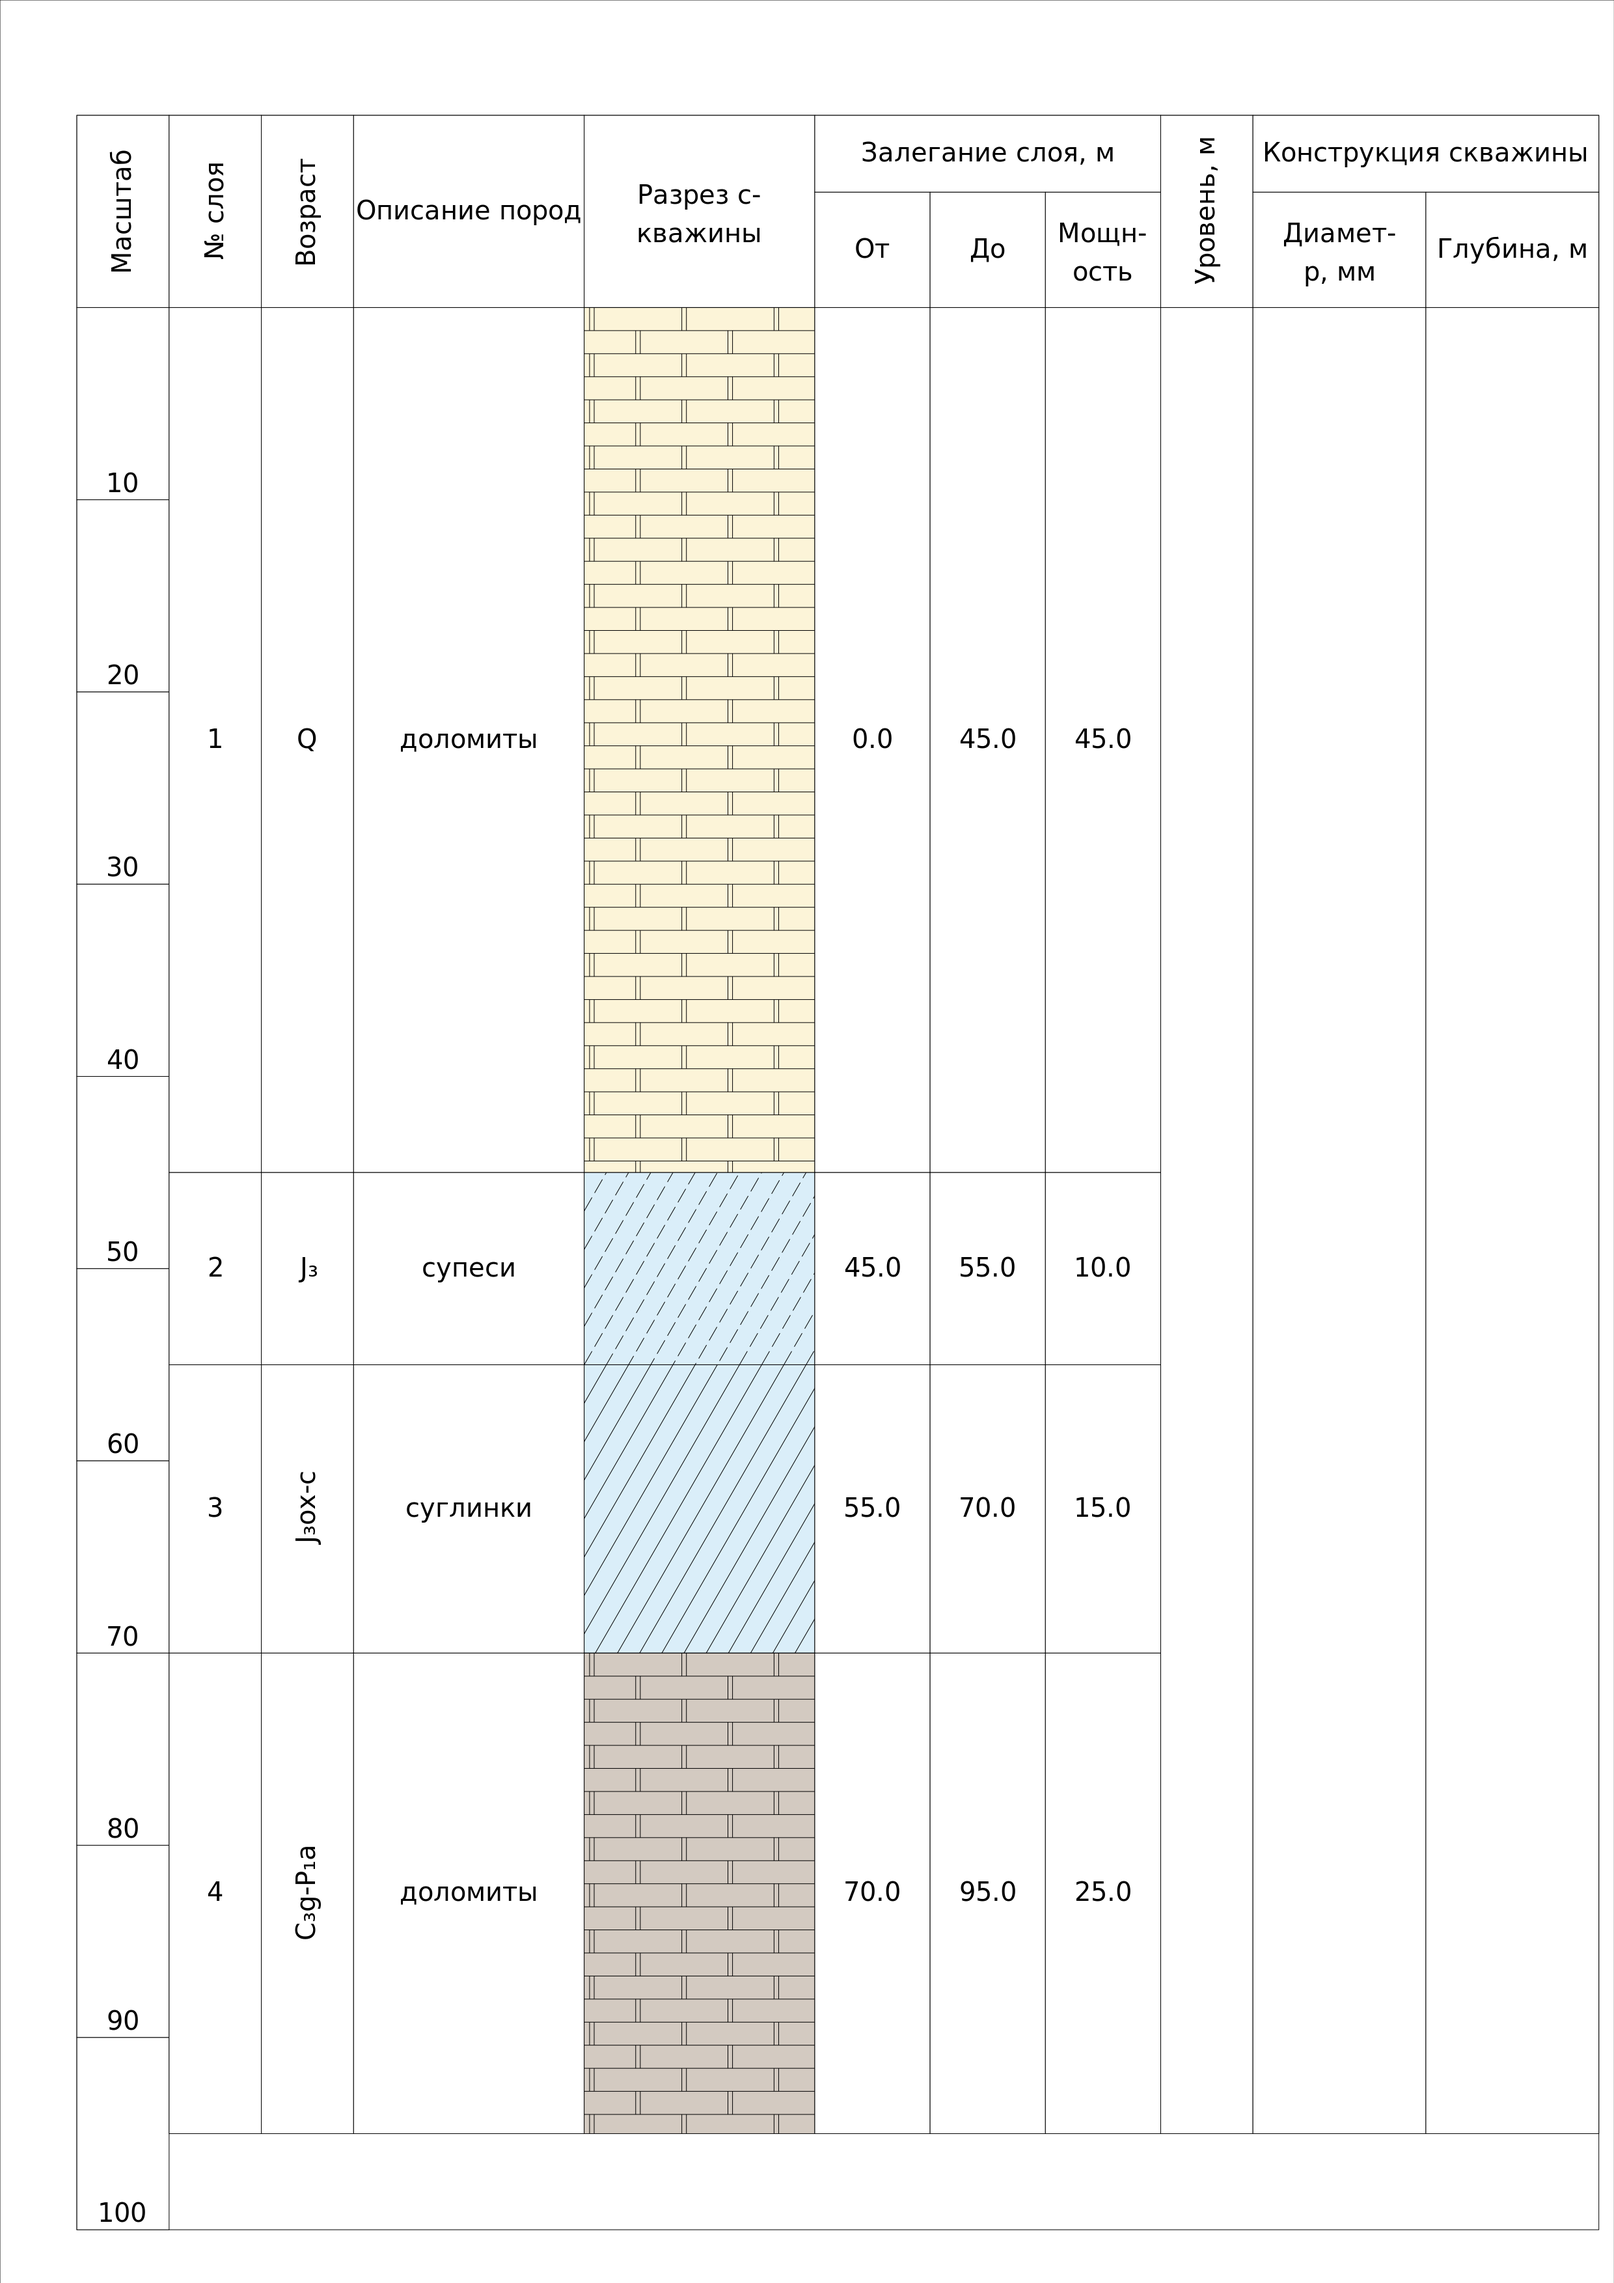
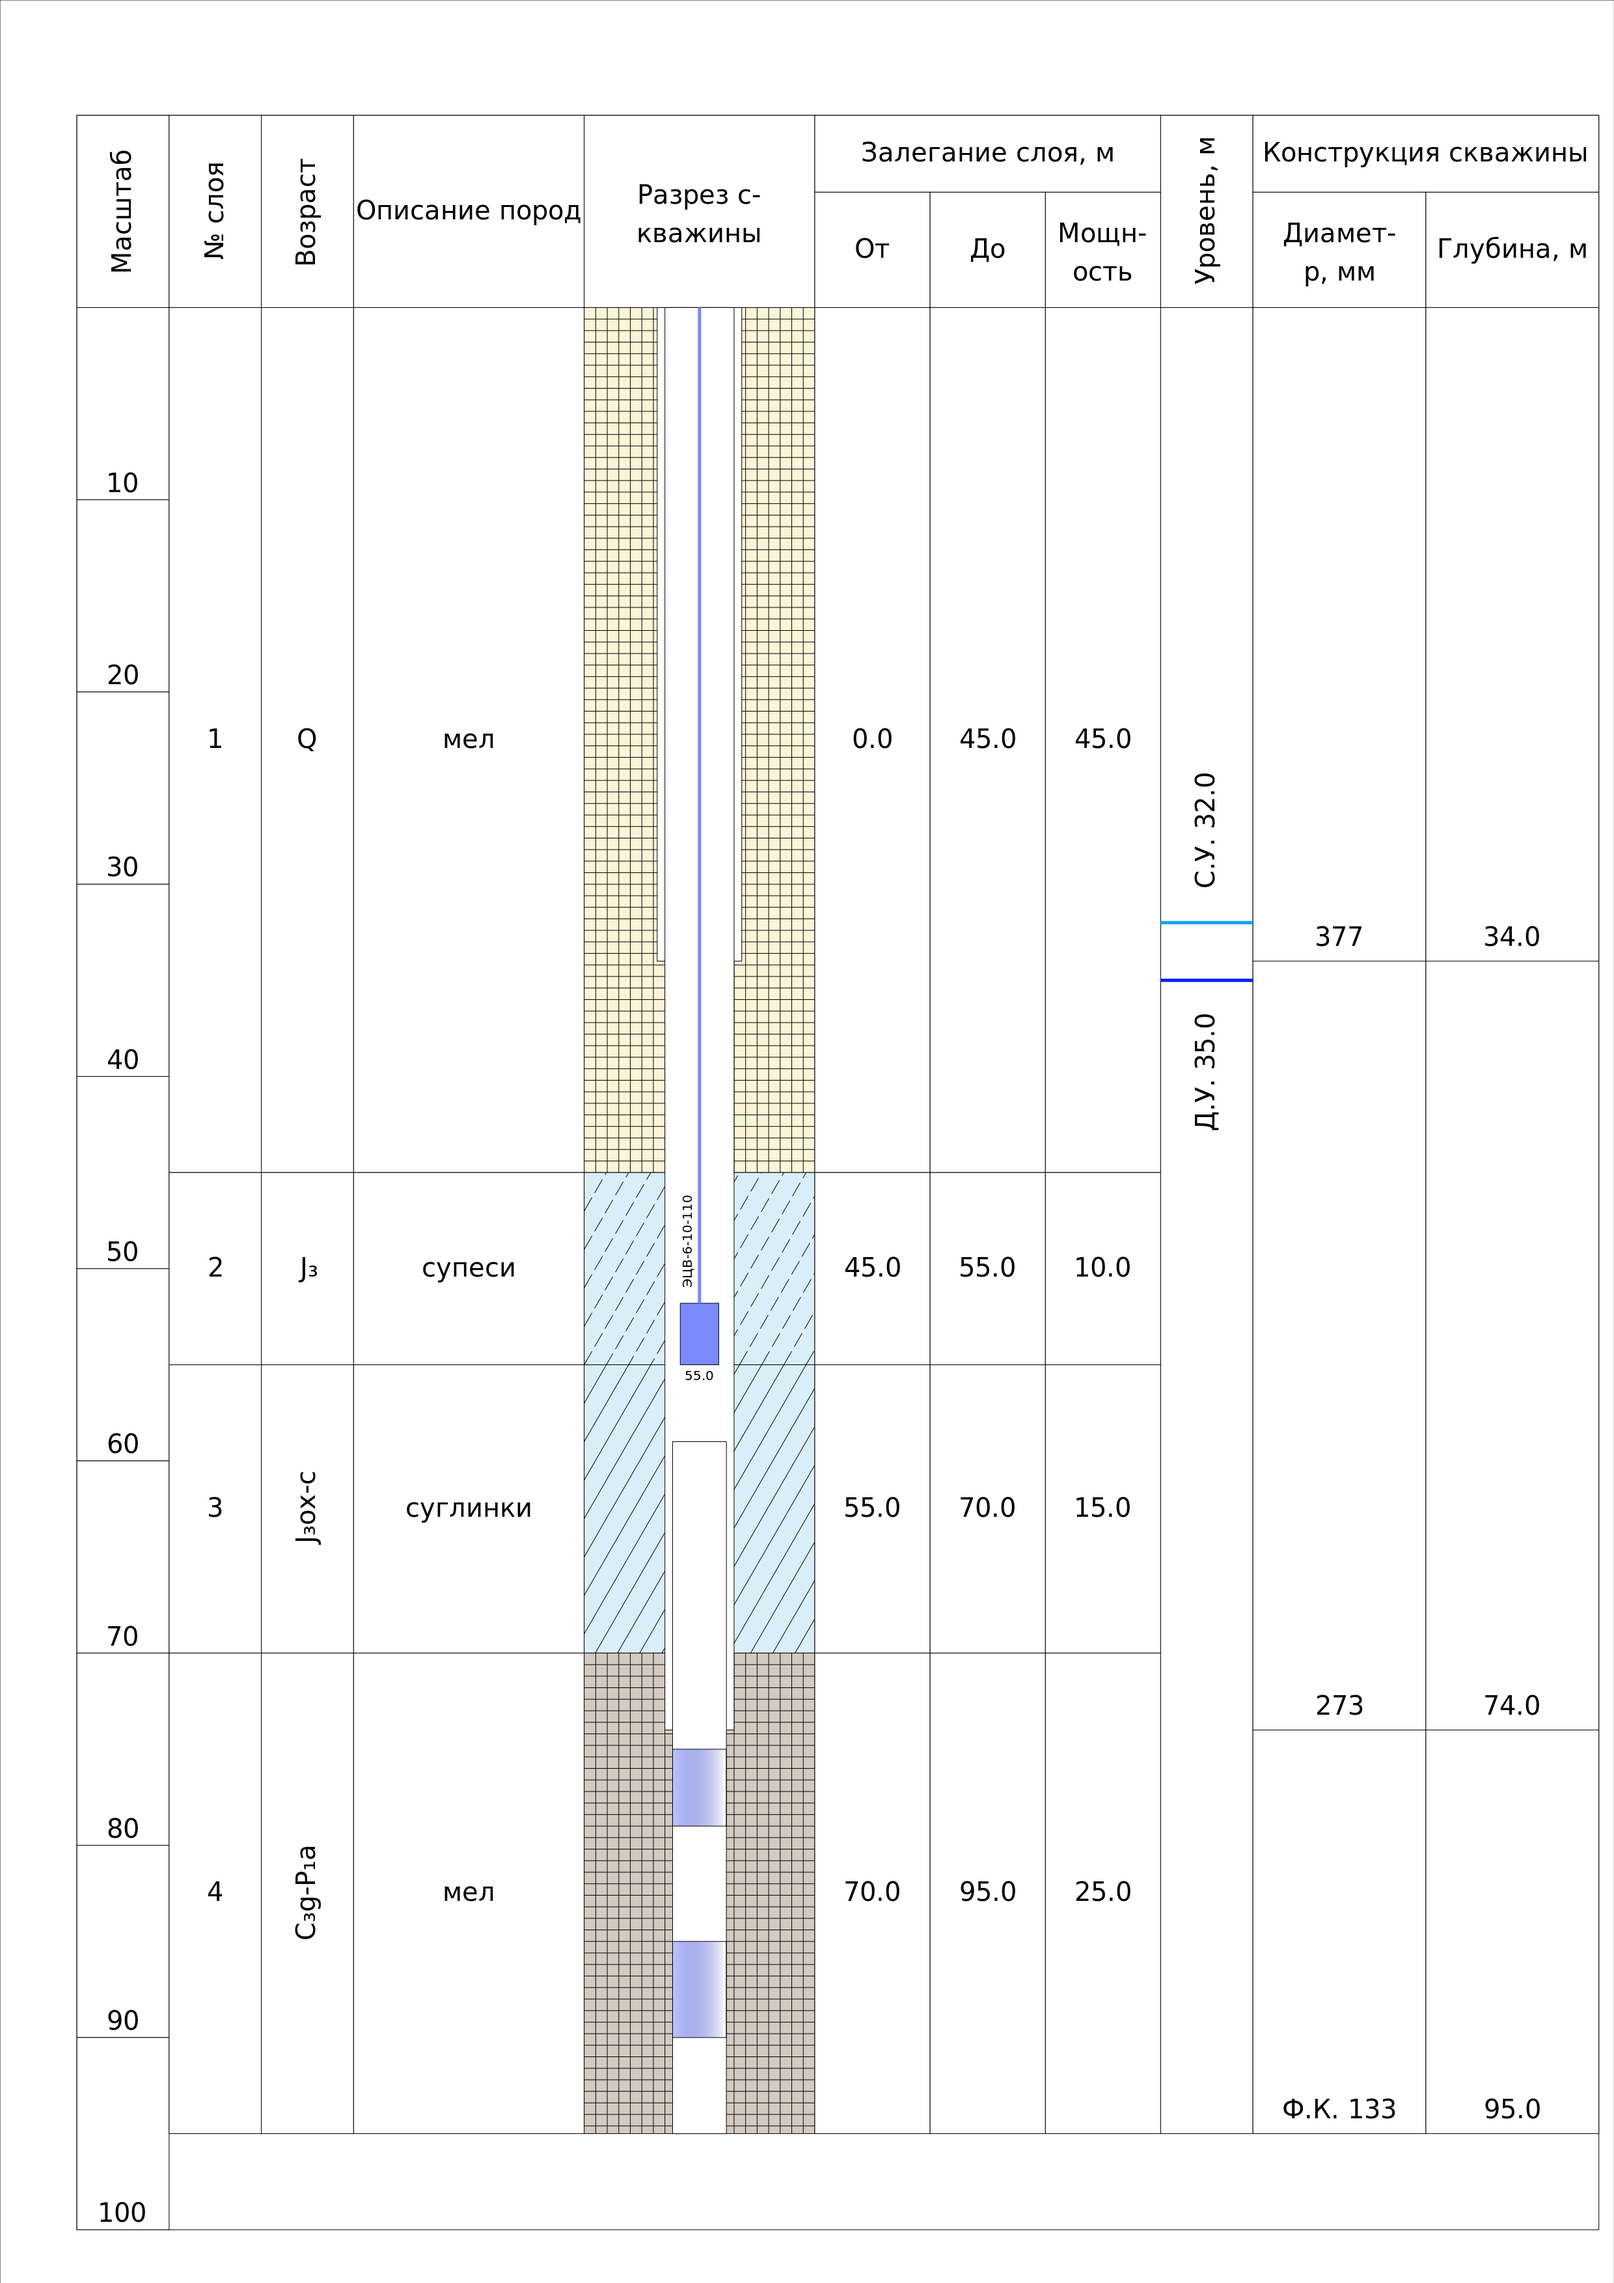
add chalk

Changed region(s): [[0.3726, 0.1243, 0.4968, 0.9324], [0.2794, 0.8081, 0.3105, 0.8392], [0.2794, 0.3108, 0.3105, 0.3419]]

diff --git a/drawing/specks.py b/drawing/specks.py
@@ -25,8 +25,10 @@ def speck(d, x, y, width, height, sediments):
             sandy_loams(d, x, y, width, height)
         elif sediments[0] == 'песчаники':
             sandstones(d, x, y, width, height)
-        elif sediments[0] == 'доломиты':        
+        elif sediments[0] == 'доломиты':
             dolomites(d, x, y, width, height)
+        elif sediments[0] == 'мел':   
+            chalk(d, x, y, width, height)
 
 
 # пески
@@ -424,3 +426,30 @@ def dolomites(d, x, y, width, height):
         # обнуление начальной точки + смещение
         x_start = (x + indent) * koef + delta
         y_start -= delta_y
+
+
+# мел
+def chalk(d, x, y, width, height):
+    # смещение по горизонтали и вертикали (для мела одинаковое)
+    delta = 3/2*koef
+    # стартовые значения
+    y_start = y * koef - delta
+    x_start = x * koef + delta
+    # горизонтальная штриховка
+    while y_start > (y - height) * koef:
+        c = draw.Lines(
+            x*koef, y_start,
+            (x + width) * koef, y_start,
+            stroke='black'
+        )
+        d.append(c)
+        y_start -= delta
+    # вертикальная штриховка
+    while x_start < (x + width) * koef:
+        c = draw.Lines(
+            x_start, y*koef,
+            x_start, (y-height) * koef,
+            stroke='black'
+        )
+        d.append(c)
+        x_start += delta

diff --git a/drawing/main.py b/drawing/main.py
@@ -340,10 +340,10 @@ def well(d, well_dt):
 
 well_data = {
     'layers': {
-        1: {'id': 1, 'name': 'Q', 'thick': 45.0, 'sediments': ('доломиты',)},
+        1: {'id': 1, 'name': 'Q', 'thick': 45.0, 'sediments': ('мел',)},
         2: {'id': 2, 'name': 'J\u2083', 'thick': 10, 'sediments': ('супеси',)},
         3: {'id': 3, 'name': 'J\u2083ox-c', 'thick': 15, 'sediments': ('суглинки',)},
-        4: {'id': 4, 'name': 'C\u2083g-P\u2081a', 'thick': 25, 'sediments': ('доломиты',)}
+        4: {'id': 4, 'name': 'C\u2083g-P\u2081a', 'thick': 25, 'sediments': ('мел',)}
     },
     'well_data': {
         'columns': {
